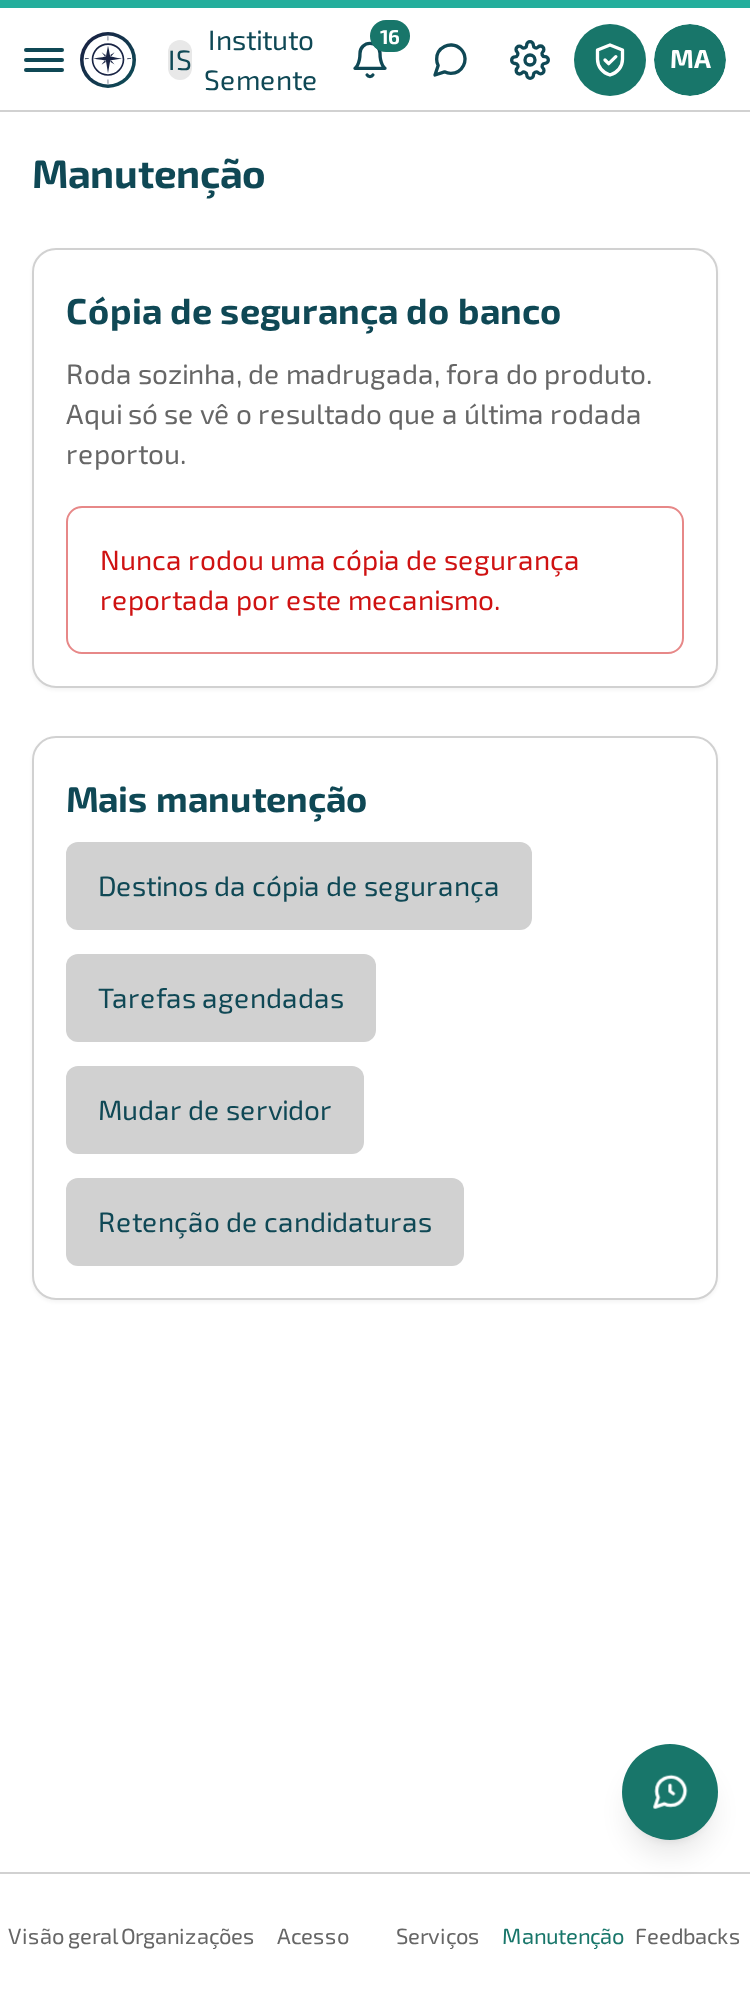
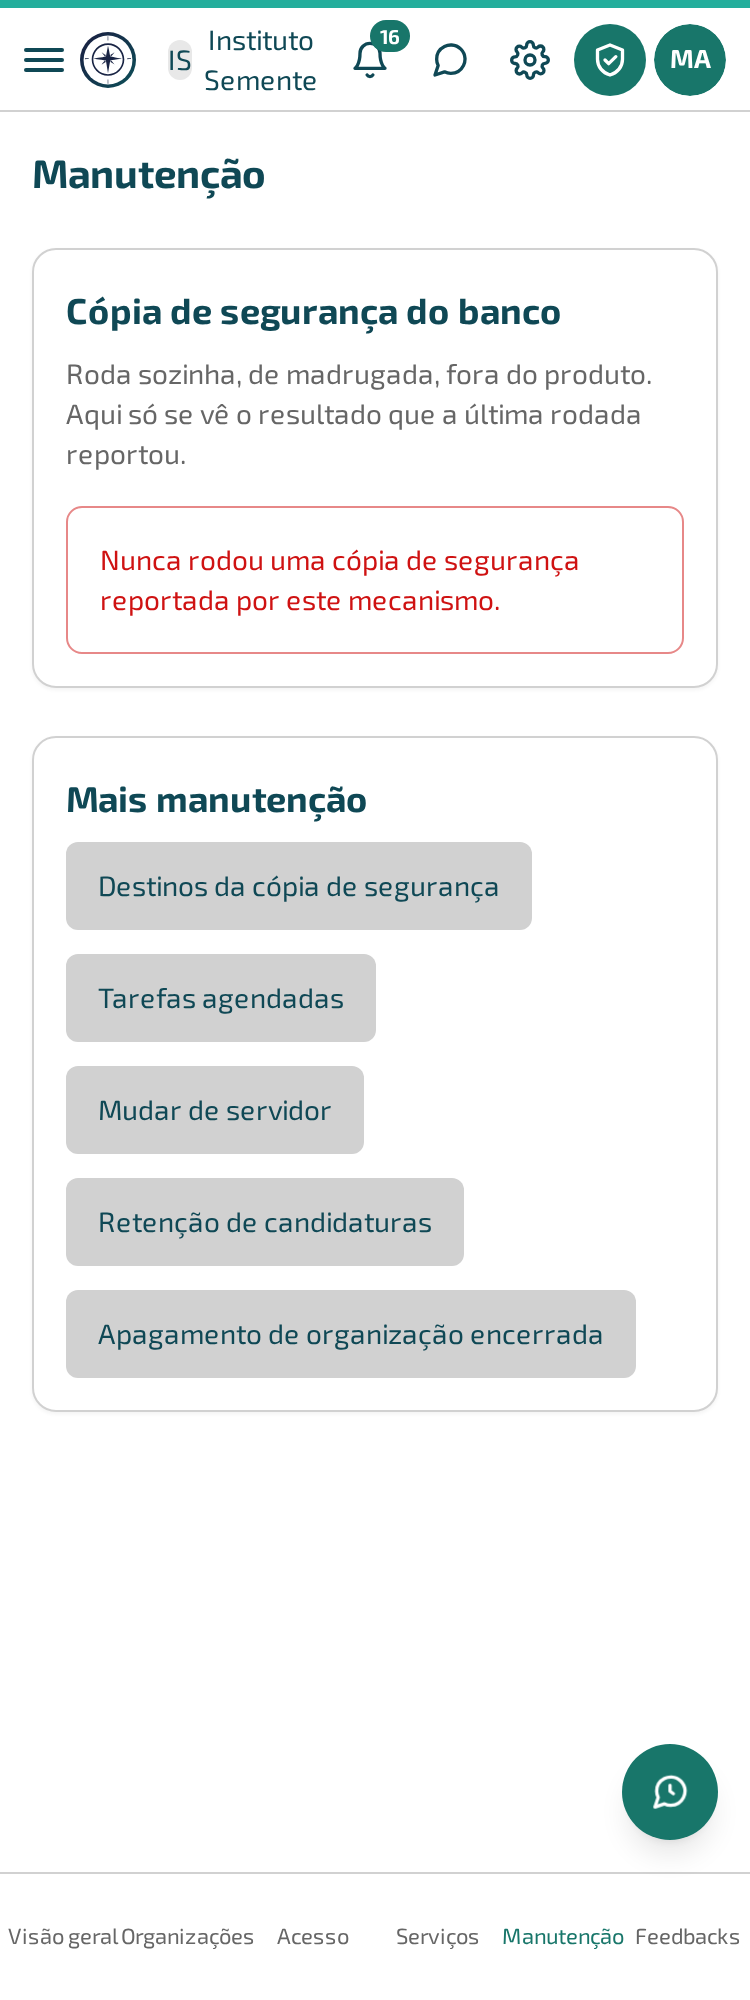
docs: apagamento da organização encerrada (#280)

Changed region(s): [[0.0613, 0.62, 0.8587, 0.713]]

diff --git a/admin-servico/apagamento-organizacao-encerrada.md b/admin-servico/apagamento-organizacao-encerrada.md
@@ -1,0 +1,218 @@
+---
+title: "Apagamento de organização encerrada"
+nav_order: 16
+parent: "Administração do serviço"
+permalink: /admin-servico/apagamento-organizacao-encerrada/
+palavras_chave: "encerrar contrato, reabrir contrato, apagamento, trigésimo dia, 30 dias, aviso ao gestor, segundo aviso, exportar dados, rotina de apagamento, nada a apagar, nunca rodou, apagamento parou, LGPD"
+---
+
+# Apagamento de organização encerrada
+
+Quando um contrato com uma organização termina, os dados dela **não ficam guardados para sempre**: a RIT360 Plataforma os apaga sozinha, por completo, **no trigésimo dia depois do encerramento**. Esta página explica como quem administra o serviço **encerra** um contrato, **reabre** antes que seja tarde, e como conferir se a rotina que apaga está de fato funcionando.
+
+{: .important }
+Tudo aqui é feito por quem **administra o serviço**. Quem administra uma organização não encerra o contrato da própria organização, nem vê estas telas.
+
+## Por que isto importa
+
+A política de privacidade da plataforma promete a quem encerra o contrato que os dados serão apagados no trigésimo dia. Quem saiu **não volta para conferir** se a promessa foi cumprida — por isso ela não pode depender de alguém lembrar. O encerramento passa a ser um ato registrado, com data e motivo, e uma rotina automática cuida do resto.
+
+Do outro lado, o apagamento **não tem volta**. Por isso o gestor da organização é avisado **duas vezes**, e você pode desfazer o encerramento enquanto o apagamento não começou.
+
+## Como funciona, em ordem
+
+1. **Você encerra o contrato**, informando o motivo. O relógio dos 30 dias começa nesse momento.
+2. **No mesmo instante, o gestor recebe um e-mail** com a data do apagamento e o caminho para exportar os dados.
+3. **Sete dias antes do apagamento**, o gestor recebe um **segundo e-mail**, de lembrete.
+4. **No trigésimo dia**, a rotina apaga a organização em **todos os módulos, com os arquivos** — o mesmo alcance da exclusão feita à mão (veja [Excluir uma organização](/admin-servico/organizacoes/#excluir-uma-organização)). Sobra só um registro mínimo, sem conteúdo.
+
+Os números **30** e **7** são os padrões; quem administra o serviço pode ajustá-los (veja [Ajustar os prazos](#ajustar-os-prazos)).
+
+## Encerrar o contrato de uma organização
+
+O encerramento é feito no **detalhe da organização**, na tela **Organizações**.
+
+![Janela de detalhe do Instituto Semente, com o bloco "Contrato com o serviço": o texto "Contrato em vigor", o campo "Motivo do encerramento" e o botão "Encerrar contrato"](/assets/capturas/admin-servico-organizacoes-contrato-vigor-desktop.png)
+{: .mt-4 }
+
+No celular:
+
+![Detalhe da organização no celular, com o bloco "Contrato com o serviço" e o botão "Encerrar contrato"](/assets/capturas/admin-servico-organizacoes-contrato-vigor-celular.png){: style="max-width:375px" }
+{: .mt-4 }
+
+### Passo a passo
+
+1. Abra **Organizações** na administração do serviço (escudo no cabeçalho).
+2. Na linha da organização, clique em **"Detalhes"**.
+3. Role até **"Contrato com o serviço"**. Enquanto o contrato está em vigor, a janela diz **"Contrato em vigor."** e explica o efeito do encerramento.
+4. Preencha **"Motivo do encerramento"**. O botão **"Encerrar contrato"** só liga depois que o motivo é preenchido (até 500 caracteres).
+5. Clique em **"Encerrar contrato"** (o botão passa a **"Encerrando…"**).
+6. A janela confirma com **"Contrato encerrado. Os dados serão apagados em [data e hora], e o gestor foi avisado."**
+
+A tabela de organizações passa a mostrar **"Encerrado"** na coluna **"Contrato"**.
+
+### Exemplo
+
+A diretoria da Associação Girassol comunica que encerra o convênio com a RIT. A administradora do serviço abre os **Detalhes** da Girassol, escreve no motivo **"Fim do convênio, pedido da diretoria em 10/10"** e clica em **"Encerrar contrato"**. A tela informa que os dados serão apagados em 12/11 e que o gestor foi avisado. A partir daí, o motivo, quem encerrou e a data ficam registrados na própria janela, no histórico do contrato.
+
+### Dicas e armadilhas
+
+- **Escreva um motivo que alguém entenda daqui a um ano.** Ele fica no histórico do contrato, junto da data; é o que explica por que uma organização foi encerrada (ou reaberta).
+- **Encerrar não é suspender.** Suspender interrompe o uso e o dado continua sendo da organização, que volta de onde parou; só o **encerramento** faz o prazo de apagamento correr.
+- **Confirme que o gestor sabe antes de clicar**, se puder. O e-mail automático chega no ato, mas uma conversa antes evita susto.
+- **Encerrar a organização errada é desfeito reabrindo — mas só enquanto o apagamento não começou.** Veja abaixo.
+
+## O que o gestor recebe por e-mail
+
+São **dois e-mails**, ambos para o gestor da organização:
+
+| Quando | Assunto | O que diz |
+|---|---|---|
+| **No ato do encerramento** | *[Organização] — contrato encerrado e prazo para levar os dados* | Que o contrato foi encerrado, **em que data os dados serão apagados**, o que será apagado (pessoas, instituições, espaços, tarefas, documentos, relatórios, mensagens e arquivos), o caminho da exportação, e que reabrir o contrato antes da data cancela o apagamento. |
+| **Sete dias antes** | *[Organização] — os dados serão apagados em [data]* | Que é o **último aviso**, a data do apagamento e o caminho da exportação. |
+
+Os dois explicam que a exportação existe e levam o endereço para fazê-la (a aba **"Exportação e importação"** da organização — veja [Exportar dados](/configuracoes/exportar-dados/)). Quem administra o serviço **não alcança o conteúdo** das organizações: só o gestor consegue tirar a cópia.
+
+{: .warning }
+**O prazo corre mesmo que o e-mail não chegue.** Se o servidor de e-mail estiver fora do ar, se o gestor não tiver conta com e-mail ou se a organização não tiver gestor, o aviso **não sai — e o apagamento segue no prazo de qualquer forma**. A tela mostra isso (veja [Quando o aviso não sai](#quando-o-aviso-não-sai)), e é você quem precisa avisar o gestor por outro caminho.
+
+## Reabrir o contrato
+
+Reabrir **cancela o apagamento** e devolve o contrato a **"Ativo"**. Só é possível **antes** de o apagamento começar.
+
+![Janela de detalhe da organização com contrato encerrado: a data do apagamento, o campo "Motivo da reabertura", o botão "Reabrir contrato e cancelar o apagamento" e o histórico do contrato](/assets/capturas/admin-servico-organizacoes-contrato-encerrado-desktop.png)
+{: .mt-4 }
+
+### Passo a passo
+
+1. Abra o **detalhe** da organização encerrada, em **Organizações**.
+2. Em **"Contrato com o serviço"**, preencha **"Motivo da reabertura"**.
+3. Clique em **"Reabrir contrato e cancelar o apagamento"** (o botão passa a **"Reabrindo…"**).
+4. A janela confirma: **"Contrato reaberto: o apagamento foi cancelado."** A organização volta a **"Contrato em vigor"** e o histórico guarda os dois atos: **encerrado** e **reaberto**, cada um com o motivo.
+
+![Detalhe da organização depois de reaberta: a mensagem "Contrato reaberto: o apagamento foi cancelado." e o contrato em vigor de novo](/assets/capturas/admin-servico-organizacoes-contrato-reaberto-desktop.png)
+{: .mt-4 }
+
+### Depois que o apagamento começa, não há volta
+
+Quando a rotina começa a apagar, parte do conteúdo pode já ter saído em definitivo. Reabrir aí devolveria **uma organização pela metade** — por isso a tela **não oferece o botão**. Em vez dele, mostra:
+
+> O apagamento já começou em [data e hora]: parte do conteúdo pode já ter sido apagada em definitivo, então não há mais como reabrir — reabrir devolveria uma organização pela metade.
+
+Se alguém tentar reabrir por outro caminho, a resposta é a mesma recusa: *"O apagamento desta organização já começou… Conclua o apagamento (a rotina retenta) em vez de reabrir."*
+
+E depois que o apagamento termina, a organização deixou de existir: *"Esta organização não existe mais. Se ela estava com o contrato encerrado, a rotina já cumpriu o prazo e apagou todos os dados — não há o que reabrir."*
+
+{: .warning }
+**O apagamento é definitivo.** Não existe "desapagar", nem para quem administra o serviço. A única proteção é reabrir **antes** do começo. Se o gestor pediu para voltar atrás, faça isso **na hora**, sem esperar o último dia.
+
+### Dicas e armadilhas
+
+- **Reabrir pede motivo**, como encerrar. É o que deixa a trilha completa.
+- **Reabrir duas vezes não existe**: se o contrato já está em vigor, a tela não mostra o botão. Se alguém tentar, aparece **"O contrato desta organização não está encerrado: não há apagamento para cancelar."**
+- **Encerrar de novo uma organização já encerrada** é recusado: **"O contrato desta organização já está encerrado."**
+
+## Quando o aviso não sai
+
+Se o e-mail de um dos avisos falhar, a tela diz — em vermelho, no detalhe da organização e na tela de acompanhamento. Exemplo real do ambiente de teste, sem servidor de e-mail configurado:
+
+![Detalhe da organização encerrada com a mensagem em vermelho "O aviso do encerramento NÃO saiu: Não foi possível enviar o e-mail: Nenhum servidor de e-mail configurado. O apagamento segue no prazo de qualquer forma."](/assets/capturas/admin-servico-organizacoes-contrato-encerrado-desktop.png)
+{: .mt-4 }
+
+As mensagens possíveis:
+
+- **"O aviso do encerramento NÃO saiu: [motivo]. O apagamento segue no prazo de qualquer forma."**
+- **"O segundo aviso NÃO saiu: [motivo]. O apagamento segue no prazo de qualquer forma."**
+
+Os motivos mais comuns, e o que fazer:
+
+| O motivo diz | O que significa | O que fazer |
+|---|---|---|
+| *"Nenhum servidor de e-mail configurado."* | O produto não tem servidor de e-mail cadastrado. | Configure em [Servidor de e-mail do produto](/admin-servico/email/) — e avise o gestor por outro meio. |
+| *"A organização não tem gestor cadastrado (nenhum membro com o papel de administrador): não há a quem avisar."* | Ninguém administra a organização. | Avise a organização por outro canal; considere reabrir se o encerramento foi precipitado. |
+| *"O gestor da organização não tem conta com e-mail: não há a quem avisar."* | O gestor existe, mas não tem e-mail utilizável. | Idem: o contato precisa ser feito por fora. |
+
+Falha de aviso **não cancela nem adia** o apagamento — a rotina prometida na política de privacidade não espera o e-mail chegar.
+
+## Acompanhar: a tela "Apagamento de organização encerrada"
+
+Para ver o serviço inteiro de uma vez: escudo no cabeçalho, **"Manutenção"** e o botão **"Apagamento de organização encerrada"** (ou o link **"Prazos e o que a rotina já apagou"** no fim do bloco de contrato).
+
+![Tela Manutenção da administração do serviço, com o novo botão "Apagamento de organização encerrada" entre os botões de manutenção](/assets/capturas/admin-servico-manutencao-desktop.png)
+{: .mt-4 }
+
+No celular:
+
+![Tela Manutenção no celular, com o botão "Apagamento de organização encerrada" no fim da lista](/assets/capturas/admin-servico-manutencao-celular.png){: style="max-width:375px" }
+{: .mt-4 }
+
+A tela tem **três partes**:
+
+1. **"Prazos"** — os dois números, com a explicação do efeito de cada um.
+2. **"Organizações com contrato encerrado"** — uma linha por organização encerrada: quando foi encerrada, **quando será apagada**, se cada aviso saiu, e o que deu errado, se algo deu.
+3. **"O que a rotina apagou"** — o que a rotina automática fez em cada passagem.
+
+![Tela "Apagamento de organização encerrada", com os prazos 30 e 7, uma organização encerrada com a data do apagamento e o cartão "O que a rotina apagou"](/assets/capturas/admin-servico-retencao-organizacoes-desktop.png)
+{: .mt-4 }
+
+No celular:
+
+![Tela "Apagamento de organização encerrada" no celular](/assets/capturas/admin-servico-retencao-organizacoes-celular.png){: style="max-width:375px" }
+{: .mt-4 }
+
+### Ajustar os prazos
+
+Enquanto ninguém mexeu, a tela diz **"Ninguém alterou ainda: valem os padrões do produto (30 dias para apagar, aviso 7 dias antes)."**
+
+1. Altere **"Apagar depois de — dias"** (padrão: 30) e/ou **"Segundo aviso, com antecedência de — dias"** (padrão: 7).
+2. Clique em **"Salvar prazos"**. Aparece **"Prazos salvos. A próxima passagem da rotina já usa estes números."**
+
+{: .warning }
+**Os 30 dias são a promessa publicada na política de privacidade.** Os campos existem para o jurídico poder ajustar um número sem mexer no produto — não para você encurtar o prazo de uma organização específica: os números valem para **todas** as organizações. O segundo aviso precisa ser **menor** que o prazo de apagamento, senão ele sairia depois do fim; a tela recusa essa combinação.
+
+### Ler o cartão "O que a rotina apagou"
+
+Como no caso das [candidaturas](/admin-servico/retencao-candidaturas/#o-que-a-rotina-apagou-ler-o-estado-da-rotina), o cartão distingue estados que **parecem iguais e significam o oposto**:
+
+| O que a tela diz | O que significa | O que fazer |
+|---|---|---|
+| **"A rotina de apagamento nunca rodou nesta instalação — nenhum ciclo foi registrado."** (aviso em vermelho) | Nenhuma passagem foi registrada. **Não é o mesmo que "não havia nada a apagar":** enquanto ela não roda, nenhuma organização encerrada é apagada no prazo, e a promessa da política de privacidade não está sendo cumprida. | Peça a quem cuida do servidor para conferir se o processo de fundo do Núcleo está no ar. |
+| **"A rotina rodou em [data e hora] e não havia nada a apagar."** (etiqueta **"Nada a apagar"**) | Rodou, olhou e nenhuma organização tinha vencido. É o estado saudável. | Nada. |
+| **"A última passagem começou em [data e hora] e não terminou"** (etiqueta **"Começou e não terminou"**) | A rotina começou e não chegou ao fim. Também **não é** "nada a apagar". | Confira se o processo de fundo continua no ar. |
+| **"A última passagem, em [data e hora], falhou: [erro]"** (etiqueta **"Falhou"**) | A rotina tentou e deu erro. | Resolva a causa descrita; a próxima passagem tenta de novo. |
+
+Quando houve trabalho, a tela resume, por exemplo: **"1 organização(ões) apagada(s), 1 com contrato encerrado acompanhada(s), 2 aviso(s) enviado(s)"** — e, se for o caso, **"N aviso(s) que NÃO saíram"** e **"N apagamento(s) interrompido(s) por falha de módulo"**.
+
+{: .warning }
+**"Nada a apagar" e "nunca rodou" são vizinhos enganosos.** Uma instalação onde a rotina não roda mostra uma lista de encerradas bem-comportada, com datas futuras — e **nada acontece quando a data chega**. Depois de encerrar o primeiro contrato numa instalação nova, confira o cartão de baixo.
+
+## Quando o apagamento falha no meio
+
+Se algum módulo **não confirmar** a remoção, o apagamento **daquela organização para ali**. Ela **continua marcada como encerrada**, a rotina **tenta de novo** na próxima passagem, e **nada fica pela metade e dado por pronto**. Na tela de acompanhamento, a organização ganha as etiquetas **"Apagamento em curso"** e **"Falhou"**, e uma frase em vermelho:
+
+> O apagamento parou no módulo [nome], em [data e hora]: [erro] A organização continua marcada e a rotina tenta de novo — nada ficou pela metade e dado por pronto.
+
+O que fazer: **nada, no primeiro momento** — a rotina retenta sozinha. Se a mesma frase continuar aparecendo passagem após passagem, o módulo citado está com problema (fora do ar, por exemplo) e precisa ser resolvido por quem cuida do servidor; depois disso, a próxima passagem conclui. **Não tente reabrir**: depois que o apagamento começou, o botão não existe — e é assim que deve ser.
+
+## Quando dá errado
+
+- **"Diga o motivo: decisão sem motivo não se audita."** — o motivo ficou em branco. Preencha e tente de novo.
+- **"Não foi possível consultar o contrato desta organização."** — a janela não conseguiu perguntar o estado do contrato e, por isso, **não mostra botão nenhum** (para não decidir com informação velha). Feche e abra de novo; se persistir, o serviço pode estar fora do ar.
+- **"Não foi possível mudar o contrato."** — nada foi alterado. Confira o estado atual na janela antes de tentar de novo.
+- **"Não foi possível consultar o apagamento de organizações encerradas."** / **"Não foi possível salvar os prazos."** — na tela de acompanhamento; os prazos anteriores continuam valendo.
+- **A antecedência do segundo aviso precisa ser menor que o prazo de apagamento** — ajuste os dois números para que o aviso saia antes do fim.
+
+## Limites do papel
+
+- Só quem **administra o serviço** encerra, reabre e ajusta prazos. A administração de uma organização não alcança nada disto.
+- Quem administra o serviço **vê o cadastro e o estado do apagamento, nunca o conteúdo** da organização. Não há como "dar uma olhada" nos dados antes de apagar nem exportá-los em nome do gestor.
+- Quem tentar abrir a tela sem a permissão vê a recusa de sempre da área: **"Você não administra o serviço."**
+
+## Glossário
+
+- **Encerrar o contrato** — marcar o fim da relação com a organização. É o que inicia a contagem de 30 dias. Diferente de **suspender**, que só interrompe o uso.
+- **Reabrir o contrato** — desfazer o encerramento e cancelar o apagamento; só vale antes de o apagamento começar.
+- **Apagamento** — a remoção definitiva dos dados da organização em todos os módulos, com os arquivos.
+- **Registro mínimo** — o que sobra depois: a trilha de quem habilitou e desabilitou cada módulo e o pedido de criação da organização. Sem conteúdo.
+- **Rotina de apagamento** — o processo automático do Núcleo que, sozinho, avisa e apaga no prazo.
+- **Segundo aviso** — o lembrete por e-mail, sete dias antes (por padrão), que dá tempo de exportar.

diff --git a/admin-servico/organizacoes.md b/admin-servico/organizacoes.md
@@ -3,7 +3,7 @@ title: "Organizações"
 nav_order: 8
 parent: "Administração do serviço"
 permalink: /admin-servico/organizacoes/
-palavras_chave: "criar organização, gestor, quem responde pela organização, data de entrada, detalhe da organização, quantos espaços, suspender contrato, excluir organização, excluir apaga tudo, exclusão parcial, repetir a exclusão, autosserviço desligado, números desatualizados, tarefas agendadas, ligar módulo, desligar módulo, habilitar flow, módulo não habilitado, habilitação por organização"
+palavras_chave: "criar organização, gestor, quem responde pela organização, data de entrada, detalhe da organização, quantos espaços, suspender contrato, encerrar contrato, reabrir contrato, apagamento em 30 dias, excluir organização, excluir apaga tudo, exclusão parcial, repetir a exclusão, autosserviço desligado, números desatualizados, tarefas agendadas, ligar módulo, desligar módulo, habilitar flow, módulo não habilitado, habilitação por organização"
 ---
 
 # Organizações
@@ -288,9 +288,15 @@ organização](#ver-o-detalhe-de-uma-organização)):
 - **"Clientes"** — quantos clientes a organização tem cadastrados.
 - **"Pessoas"** — quantas pessoas têm vínculo com a organização.
 
+## Encerrar ou reabrir o contrato
+
+No **detalhe** da organização (botão **"Detalhes"**), o bloco **"Contrato com o serviço"** permite **encerrar o contrato** — informando o motivo — e **reabri-lo** enquanto o apagamento não começou. Encerrar marca o relógio: a organização será apagada **no trigésimo dia**, e o gestor é avisado por e-mail no ato e de novo sete dias antes. A coluna **"Contrato"** passa a mostrar **"Encerrado"**.
+
+Passo a passo, avisos, armadilhas e o que fazer se algo falhar: [Apagamento de organização encerrada](/admin-servico/apagamento-organizacao-encerrada/).
+
 ## Excluir uma organização
 
-Excluir aqui é definitivo, e é diferente de suspender o contrato: **a organização inteira some, com
+Excluir aqui é definitivo e imediato, e é diferente de suspender o contrato — e também de **encerrá-lo**: encerrar o contrato marca o prazo de 30 dias e só então apaga a organização, com aviso ao gestor e a chance de reabrir (veja [Apagamento de organização encerrada](/admin-servico/apagamento-organizacao-encerrada/)): **a organização inteira some, com
 tudo o que ela tem em todos os módulos.**
 
 Isso nem sempre foi assim. Até a versão 0.52.0 a tela prometia que tudo sumia, mas a exclusão valia

diff --git a/glossario.md b/glossario.md
@@ -398,6 +398,11 @@ Depois da remoção sobra, no máximo, um **registro mínimo** (tipo, frente, da
 decidiu) — e, no caso de recusa por idade, nada. Ver
 [Retenção de candidaturas](/admin-servico/retencao-candidaturas/).
 
+## Encerrar o contrato (organização)
+
+Ato de quem administra o serviço que marca o fim da relação com uma organização e inicia a contagem de 30 dias até o apagamento de todos os dados dela. Não é o mesmo que suspender (que só interrompe o uso). Reabrir o contrato antes de o apagamento começar cancela o apagamento. Ver
+[Apagamento de organização encerrada](/admin-servico/apagamento-organizacao-encerrada/).
+
 ## Selo (da plataforma)
 
 O que um documento recebe quando todas as partes aceitam por link: um texto que diz o que foi feito (o

diff --git a/admin-servico/index.md b/admin-servico/index.md
@@ -102,6 +102,9 @@ lado. Link guardado nos favoritos não quebrou.
   verdade.
 - [Retenção de candidaturas](/admin-servico/retencao-candidaturas/) — por quanto tempo o Flow
   guarda o que uma pessoa enviou ao se candidatar, e se a rotina que apaga isso está rodando.
+- [Apagamento de organização encerrada](/admin-servico/apagamento-organizacao-encerrada/) — como
+  encerrar e reabrir o contrato de uma organização, os dois avisos ao gestor, o prazo de 30 dias
+  e como conferir se a rotina que apaga está rodando.
 
 **Feedbacks** — [o que as pessoas enviaram](/admin-servico/feedbacks/) de dentro do produto, e a
 resposta a cada um.
